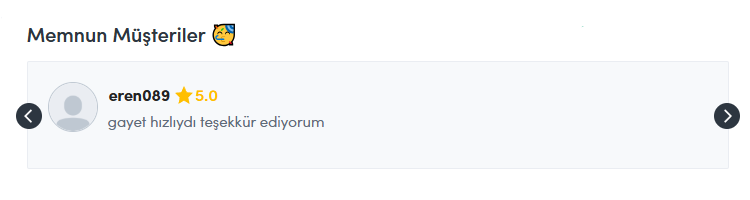
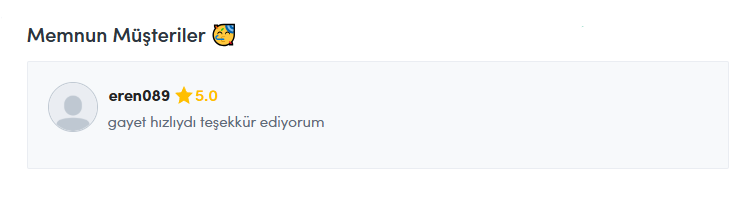
summary

Changed region(s): [[0.9507, 0.51, 1.0, 0.66], [0.0, 0.51, 0.0613, 0.66]]

diff --git a/index.html b/index.html
@@ -302,6 +302,9 @@
                 </div>
                 <div class="carousel-item">
                     <img class="img-fluid " src="assets/img/portfolio/yorum4.png" alt="LinkedIn Logo" />
+                </div>  
+                <div class="carousel-item">
+                    <img class="img-fluid " src="assets/img/portfolio/yorum5.png" alt="LinkedIn Logo" />
                 </div>
             </div>
         </div>
